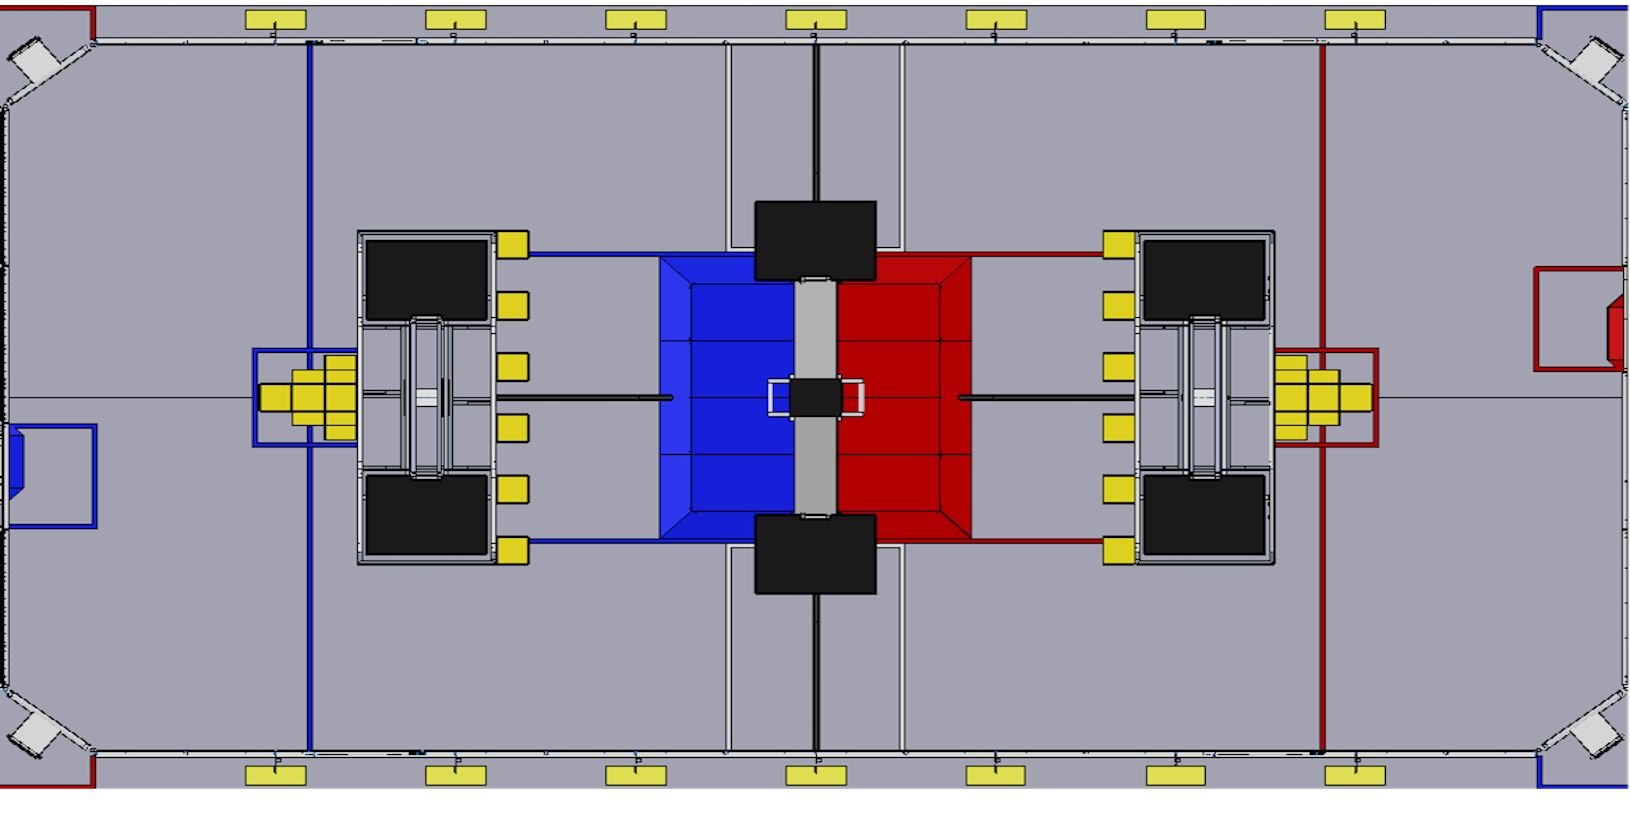
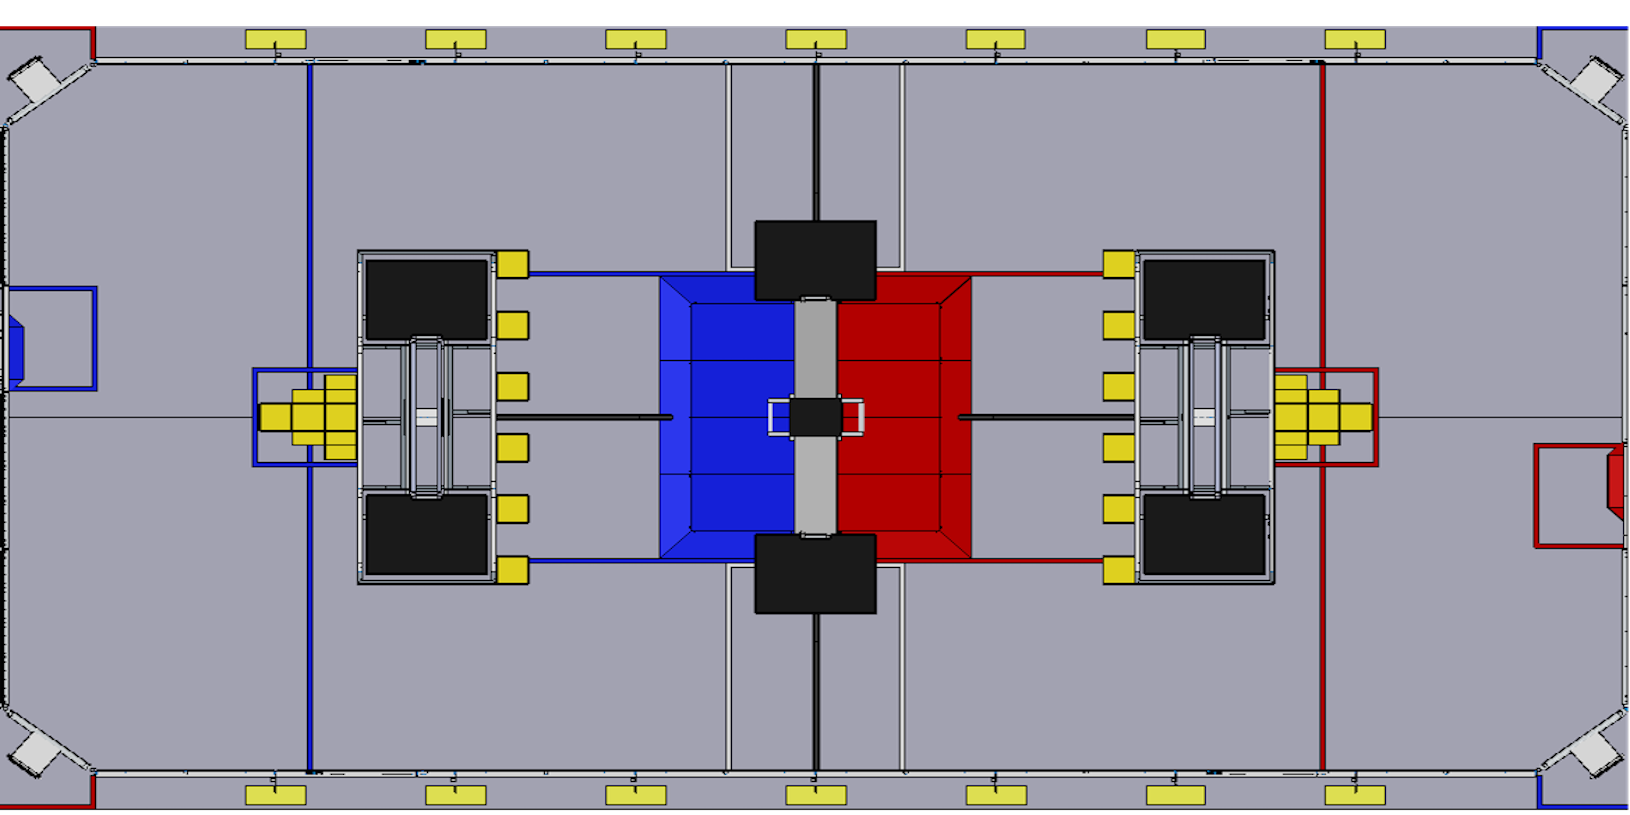
Finalized all blue auto paths

diff --git a/auto-graph/script.js b/auto-graph/script.js
@@ -387,15 +387,15 @@ function importData() {
 
 			if (name[0] == "C" || name[0] == "B") {
 				x = 18
-				y = 180
+				y = 170
 			}
 			else if (name[0] == "L") {
 				x = 18
-				y = 290
+				y = 280
 			}
 			else {
 				x = 18
-				y = 70
+				y = 60
 			}
 
 			

diff --git a/src/com/palyrobotics/frc2018/auto/modes/CenterStartRightScaleAutoMode.java b/src/com/palyrobotics/frc2018/auto/modes/CenterStartRightScaleAutoMode.java
@@ -36,14 +36,18 @@ public class CenterStartRightScaleAutoMode extends AutoModeBase {
         List<Path.Waypoint> path = new ArrayList<>();
         path.add(new Path.Waypoint(new Translation2d(0, 0), 72.0));
         if (mAlliance == Alliance.BLUE) {
-            path.add(new Path.Waypoint(new Translation2d((AutoDistances.kBlueRightScaleX - Constants.kRobotLengthInches)
-                    /2.0, 0), 72.0));
-            path.add(new Path.Waypoint(new Translation2d((AutoDistances.kBlueRightScaleX - Constants.kRobotLengthInches)
-                    / 2.0, -(AutoDistances.kFieldWidth - AutoDistances.kBlueLeftToCenterY - AutoDistances.kBlueRightScaleY
-                    - Constants.kPlateWidth/2.0)), 72.0));
+            path.add(new Path.Waypoint(new Translation2d(AutoDistances.kBlueRightSwitchX - Constants.kRobotLengthInches,
+                    -(AutoDistances.kFieldWidth - AutoDistances.kBlueLeftToCenterY - Constants.kRobotWidthInches)
+                            + AutoDistances.kBlueRightSwitchY/2.0), 72.0));
+            path.add(new Path.Waypoint(new Translation2d(AutoDistances.kBlueRightSwitchX + Constants.kRobotLengthInches,
+                    -(AutoDistances.kFieldWidth - AutoDistances.kBlueLeftToCenterY - Constants.kRobotWidthInches)
+                            + AutoDistances.kBlueRightSwitchY/2.0), 72.0));
+            path.add(new Path.Waypoint(new Translation2d(AutoDistances.kBlueRightScaleX - 2.0 * Constants.kRobotLengthInches,
+                    -(AutoDistances.kFieldWidth - AutoDistances.kBlueLeftToCenterY - Constants.kRobotWidthInches/2.0)
+                            + AutoDistances.kBlueRightScaleY + Constants.kPlateWidth/2.0), 72.0));
             path.add(new Path.Waypoint(new Translation2d(AutoDistances.kBlueRightScaleX - Constants.kRobotLengthInches,
-                    -(AutoDistances.kFieldWidth - AutoDistances.kBlueLeftToCenterY - AutoDistances.kBlueRightScaleY
-                            - Constants.kPlateWidth/2.0)), 0.0));
+                    -(AutoDistances.kFieldWidth - AutoDistances.kBlueLeftToCenterY - Constants.kRobotWidthInches/2.0)
+                            + AutoDistances.kBlueRightScaleY + Constants.kPlateWidth/2.0), 0.0));
         } else {
             path.add(new Path.Waypoint(new Translation2d((AutoDistances.kRedRightScaleX - Constants.kRobotLengthInches)
                     / 2.0, 0), 72.0));

diff --git a/src/com/palyrobotics/frc2018/auto/modes/LeftStartLeftScaleAutoMode.java b/src/com/palyrobotics/frc2018/auto/modes/LeftStartLeftScaleAutoMode.java
@@ -36,14 +36,16 @@ public class LeftStartLeftScaleAutoMode extends AutoModeBase {
         List<Path.Waypoint> path = new ArrayList<>();
         path.add(new Path.Waypoint(new Translation2d(0.0, 0.0), 72.0));
         if(mAlliance == Alliance.BLUE) {
-            path.add(new Path.Waypoint(new Translation2d((AutoDistances.kBlueLeftScaleX
-                    - Constants.kRobotLengthInches) / 2, 0.0), 72.0));
-            path.add(new Path.Waypoint(new Translation2d((AutoDistances.kBlueLeftScaleX - Constants.kRobotLengthInches) / 2,
-                    -(AutoDistances.kBlueLeftScaleY + (Constants.kPlateWidth / 2) - AutoDistances.kBlueLeftCornerOffset
-                            - (Constants.kPlateWidth / 2))), 72.0));
-            path.add(new Path.Waypoint(new Translation2d(AutoDistances.kBlueRightScaleX - Constants.kRobotLengthInches,
-                    -(AutoDistances.kBlueLeftScaleY + (Constants.kPlateWidth / 2) - AutoDistances.kBlueLeftCornerOffset
-                            - (Constants.kPlateWidth / 2))), 0.0));
+            path.add(new Path.Waypoint(new Translation2d(AutoDistances.kBlueLeftSwitchX - Constants.kRobotLengthInches,
+                    Constants.kRobotWidthInches/2.0 + AutoDistances.kBlueLeftCornerOffset - AutoDistances.kBlueLeftSwitchY/2.0), 72.0));
+            path.add(new Path.Waypoint(new Translation2d(AutoDistances.kBlueLeftSwitchX + Constants.kRobotLengthInches,
+                    Constants.kRobotWidthInches/2.0 + AutoDistances.kBlueLeftCornerOffset - AutoDistances.kBlueLeftSwitchY/2.0), 72.0));
+            path.add(new Path.Waypoint(new Translation2d(AutoDistances.kBlueLeftScaleX - 2.0*Constants.kRobotLengthInches,
+                    (Constants.kRobotWidthInches/2.0 + AutoDistances.kBlueLeftCornerOffset)
+                            - AutoDistances.kBlueLeftScaleY - Constants.kPlateWidth/2.0), 72.0));
+            path.add(new Path.Waypoint(new Translation2d(AutoDistances.kBlueLeftScaleX - Constants.kRobotLengthInches,
+                    (Constants.kRobotWidthInches/2.0 + AutoDistances.kBlueLeftCornerOffset)
+                            - AutoDistances.kBlueLeftScaleY - Constants.kPlateWidth/2.0), 0.0));
         } else {
             path.add(new Path.Waypoint(new Translation2d((AutoDistances.kRedLeftScaleX
                     - Constants.kRobotLengthInches) / 2, 0.0), 72.0));

diff --git a/src/com/palyrobotics/frc2018/config/fields/Team8Field.java b/src/com/palyrobotics/frc2018/config/fields/Team8Field.java
@@ -5,37 +5,34 @@ import com.palyrobotics.frc2018.config.AutoDistances;
 public class Team8Field {
     public static void configureFieldMeasurements() {
         //Base line
-        AutoDistances.kRedBaseLineDistanceInches = 0;
+        AutoDistances.kRedBaseLineDistanceInches = 0.0;
         AutoDistances.kBlueBaseLineDistanceInches = 121.0;
 
         //Switches
-        AutoDistances.kRedRightSwitchX = 100;
-        AutoDistances.kRedRightSwitchY = 50;
+        AutoDistances.kRedRightSwitchX = 100.0;
+        AutoDistances.kRedRightSwitchY = 50.0;
 
         AutoDistances.kBlueRightSwitchX = 139.5;
         AutoDistances.kBlueRightSwitchY = 82.5;
 
-        AutoDistances.kRedLeftSwitchX = 100;
-        AutoDistances.kRedLeftSwitchY = 50;
+        AutoDistances.kRedLeftSwitchX = 100.0;
+        AutoDistances.kRedLeftSwitchY = 50.0;
 
         AutoDistances.kBlueLeftSwitchX = 139.5;
         AutoDistances.kBlueLeftSwitchY = 85.0;
 
-        AutoDistances.kBlueLeftSwitchX = 100;
-        AutoDistances.kBlueLeftSwitchY = 50;
-
         //Scales
-        AutoDistances.kBlueLeftScaleX = 0;
-        AutoDistances.kBlueLeftScaleY = 0;
+        AutoDistances.kBlueLeftScaleX = 282.0;
+        AutoDistances.kBlueLeftScaleY = 69.5;
 
-        AutoDistances.kBlueRightScaleX = 0;
-        AutoDistances.kBlueRightScaleY = 0;
+        AutoDistances.kBlueRightScaleX = 282.0;
+        AutoDistances.kBlueRightScaleY = 69.5;
 
-        AutoDistances.kRedLeftScaleX = 0;
-        AutoDistances.kRedLeftScaleY = 0;
+        AutoDistances.kRedLeftScaleX = 282.0;
+        AutoDistances.kRedLeftScaleY = 69.5;
 
-        AutoDistances.kRedRightScaleX = 0;
-        AutoDistances.kRedRightScaleY = 0;
+        AutoDistances.kRedRightScaleX = 282.0;
+        AutoDistances.kRedRightScaleY = 69.5;
 
         //Offsets
         AutoDistances.kRedLeftCornerOffset = 0;
@@ -45,7 +42,7 @@ public class Team8Field {
         AutoDistances.kBlueRightCornerOffset = 28.0;
 
         //Self explanatory
-        AutoDistances.kFieldWidth = 132;
+        AutoDistances.kFieldWidth = 321;
 
         //Length from left field wall to right edge of the exchange zone
         AutoDistances.kBlueLeftToCenterY = 139.0;

diff --git a/src/com/palyrobotics/frc2018/auto/modes/LeftStartRightScaleAutoMode.java b/src/com/palyrobotics/frc2018/auto/modes/LeftStartRightScaleAutoMode.java
@@ -36,14 +36,14 @@ public class LeftStartRightScaleAutoMode extends AutoModeBase {
         List<Path.Waypoint> path = new ArrayList<>();
         path.add(new Path.Waypoint(new Translation2d(0.0, 0.0), 72.0));
         if(mAlliance == Alliance.BLUE) {
-            path.add(new Path.Waypoint(new Translation2d(AutoDistances.kBlueScaleSwitchMidlineX
-                    - Constants.kRobotLengthInches, 0.0), 72.0));
-            path.add(new Path.Waypoint(new Translation2d(AutoDistances.kBlueScaleSwitchMidlineX,
-                    -(AutoDistances.kFieldWidth - (Constants.kRobotWidthInches / 2) - AutoDistances.kBlueLeftCornerOffset
-                            - AutoDistances.kBlueRightCornerOffset - (Constants.kPlateWidth / 2))), 72.0));
+            path.add(new Path.Waypoint(new Translation2d(AutoDistances.kBlueScaleSwitchMidlineX - Constants.kRobotLengthInches/2.0,
+                    Constants.kRobotWidthInches/2.0 + AutoDistances.kBlueLeftCornerOffset - AutoDistances.kBlueLeftSwitchY/2.0), 72.0));
+            path.add(new Path.Waypoint(new Translation2d(AutoDistances.kBlueScaleSwitchMidlineX - Constants.kRobotLengthInches/2.0,
+                    -AutoDistances.kFieldWidth + Constants.kRobotWidthInches/2.0 + AutoDistances.kBlueLeftCornerOffset
+                            + AutoDistances.kBlueRightScaleY + Constants.kPlateWidth/2.0), 72.0));
             path.add(new Path.Waypoint(new Translation2d(AutoDistances.kBlueRightScaleX - Constants.kRobotLengthInches,
-                    -(AutoDistances.kFieldWidth - (Constants.kRobotWidthInches / 2) - AutoDistances.kBlueLeftCornerOffset
-                            - AutoDistances.kBlueRightCornerOffset - (Constants.kPlateWidth / 2))), 0.0));
+                    -AutoDistances.kFieldWidth + Constants.kRobotWidthInches/2.0 + AutoDistances.kBlueLeftCornerOffset
+                            + AutoDistances.kBlueRightScaleY + Constants.kPlateWidth/2.0), 0.0));
         } else {
             path.add(new Path.Waypoint(new Translation2d(AutoDistances.kRedScaleSwitchMidlineX
                     - Constants.kRobotLengthInches, 0.0), 72.0));

diff --git a/src/com/palyrobotics/frc2018/auto/modes/RightStartLeftScaleAutoMode.java b/src/com/palyrobotics/frc2018/auto/modes/RightStartLeftScaleAutoMode.java
@@ -37,14 +37,14 @@ public class RightStartLeftScaleAutoMode extends AutoModeBase {
         List<Waypoint> path = new ArrayList<>();
         path.add(new Waypoint(new Translation2d(0.0, 0.0), 72.0));
         if(mAlliance == Alliance.BLUE) {
-            path.add(new Path.Waypoint(new Translation2d(AutoDistances.kBlueScaleSwitchMidlineX
-                    - Constants.kRobotLengthInches, 0.0), 72.0));
-            path.add(new Path.Waypoint(new Translation2d(AutoDistances.kBlueScaleSwitchMidlineX,
-                    AutoDistances.kFieldWidth - (Constants.kRobotWidthInches / 2) - AutoDistances.kBlueRightCornerOffset
-                            - AutoDistances.kBlueLeftCornerOffset - (Constants.kPlateWidth / 2)), 72.0));
+            path.add(new Path.Waypoint(new Translation2d(AutoDistances.kBlueScaleSwitchMidlineX - Constants.kRobotLengthInches/2.0,
+                    -Constants.kRobotWidthInches/2.0 - AutoDistances.kBlueRightCornerOffset + AutoDistances.kBlueRightSwitchY/2.0), 72.0));
+            path.add(new Path.Waypoint(new Translation2d(AutoDistances.kBlueScaleSwitchMidlineX - Constants.kRobotLengthInches/2.0,
+                    AutoDistances.kFieldWidth - Constants.kRobotWidthInches/2.0 - AutoDistances.kBlueRightCornerOffset
+                    - AutoDistances.kBlueLeftScaleY - Constants.kPlateWidth/2.0), 72.0));
             path.add(new Path.Waypoint(new Translation2d(AutoDistances.kBlueLeftScaleX - Constants.kRobotLengthInches,
-                    AutoDistances.kFieldWidth - (Constants.kRobotWidthInches / 2) - AutoDistances.kBlueRightCornerOffset
-                            - AutoDistances.kBlueLeftCornerOffset - (Constants.kPlateWidth / 2)), 0.0));
+                    AutoDistances.kFieldWidth - Constants.kRobotWidthInches/2.0 - AutoDistances.kBlueRightCornerOffset
+                            - AutoDistances.kBlueLeftScaleY - Constants.kPlateWidth/2.0), 0.0));
         } else {
             path.add(new Path.Waypoint(new Translation2d(AutoDistances.kRedScaleSwitchMidlineX
                     - Constants.kRobotLengthInches, 0.0), 72.0));

diff --git a/src/com/palyrobotics/frc2018/auto/modes/CenterStartLeftScaleAutoMode.java b/src/com/palyrobotics/frc2018/auto/modes/CenterStartLeftScaleAutoMode.java
@@ -37,12 +37,15 @@ public class CenterStartLeftScaleAutoMode extends AutoModeBase {
         List<Waypoint> path = new ArrayList<>();
         path.add(new Waypoint(new Translation2d(0, 0), 72.0));
         if (mAlliance == Alliance.BLUE) {
-            path.add(new Waypoint(new Translation2d((AutoDistances.kBlueLeftScaleX - Constants.kRobotLengthInches)
-                    / 2.0, 0), 72.0));
-            path.add(new Waypoint(new Translation2d((AutoDistances.kBlueLeftScaleX - Constants.kRobotLengthInches)/2.0,
-                    AutoDistances.kBlueLeftToCenterY - AutoDistances.kBlueLeftScaleY - Constants.kPlateWidth/2.0), 72.0));
+            path.add(new Waypoint(new Translation2d(AutoDistances.kBlueLeftSwitchX - Constants.kRobotLengthInches,
+                    AutoDistances.kBlueLeftToCenterY + Constants.kRobotWidthInches/2.0 - AutoDistances.kBlueLeftSwitchY/2.0), 72.0));
+            path.add(new Waypoint(new Translation2d(AutoDistances.kBlueLeftSwitchX + Constants.kRobotLengthInches,
+                    AutoDistances.kBlueLeftToCenterY + Constants.kRobotWidthInches/2.0 - AutoDistances.kBlueLeftSwitchY/2.0), 72.0));
+            path.add(new Waypoint(new Translation2d(AutoDistances.kBlueLeftScaleX - 2.0 * Constants.kRobotLengthInches,
+                    AutoDistances.kBlueLeftToCenterY + Constants.kRobotWidthInches/2.0 - AutoDistances.kBlueLeftScaleY
+                            - Constants.kPlateWidth/2.0), 72.0));
             path.add(new Waypoint(new Translation2d(AutoDistances.kBlueLeftScaleX - Constants.kRobotLengthInches,
-                    AutoDistances.kFieldWidth - AutoDistances.kBlueLeftToCenterY - AutoDistances.kBlueLeftScaleY
+                    AutoDistances.kBlueLeftToCenterY + Constants.kRobotWidthInches/2.0 - AutoDistances.kBlueLeftScaleY
                             - Constants.kPlateWidth/2.0), 0.0));
         } else {
             path.add(new Waypoint(new Translation2d((AutoDistances.kRedLeftScaleX - Constants.kRobotLengthInches)

diff --git a/src/com/palyrobotics/frc2018/auto/modes/RightStartRightScaleAutoMode.java b/src/com/palyrobotics/frc2018/auto/modes/RightStartRightScaleAutoMode.java
@@ -36,14 +36,14 @@ public class RightStartRightScaleAutoMode extends AutoModeBase {
         List<Path.Waypoint> path = new ArrayList<>();
         path.add(new Path.Waypoint(new Translation2d(0.0, 0.0), 72.0));
         if(mAlliance == Alliance.BLUE) {
-            path.add(new Path.Waypoint(new Translation2d((AutoDistances.kBlueRightScaleX
-                    - Constants.kRobotLengthInches) / 2, 0.0), 72.0));
-            path.add(new Path.Waypoint(new Translation2d((AutoDistances.kBlueRightScaleX - Constants.kRobotLengthInches) / 2,
-                    AutoDistances.kBlueRightScaleY + (Constants.kPlateWidth / 2) - AutoDistances.kBlueRightCornerOffset
-                            - (Constants.kPlateWidth / 2)), 72.0));
+            path.add(new Path.Waypoint(new Translation2d(AutoDistances.kBlueRightSwitchX + Constants.kRobotLengthInches,
+                    -(Constants.kRobotWidthInches/2.0 + AutoDistances.kBlueRightCornerOffset) + AutoDistances.kBlueRightSwitchY/2.0), 72.0));
+            path.add(new Path.Waypoint(new Translation2d(AutoDistances.kBlueRightScaleX - 2.0 * Constants.kRobotLengthInches,
+                    -(Constants.kRobotWidthInches/2.0 + AutoDistances.kBlueRightCornerOffset)
+                            + AutoDistances.kBlueRightScaleY + Constants.kPlateWidth/2.0), 72.0));
             path.add(new Path.Waypoint(new Translation2d(AutoDistances.kBlueRightScaleX - Constants.kRobotLengthInches,
-                    AutoDistances.kBlueRightScaleY + (Constants.kPlateWidth / 2) - AutoDistances.kBlueRightCornerOffset
-                            - (Constants.kPlateWidth / 2)), 0.0));
+                    -(Constants.kRobotWidthInches/2.0 + AutoDistances.kBlueRightCornerOffset)
+                    + AutoDistances.kBlueRightScaleY + Constants.kPlateWidth/2.0), 0.0));
         } else {
             path.add(new Path.Waypoint(new Translation2d((AutoDistances.kRedRightScaleX
                     - Constants.kRobotLengthInches) / 2, 0.0), 72.0));

diff --git a/src/com/palyrobotics/frc2018/auto/modes/LeftStartRightSwitchAutoMode.java b/src/com/palyrobotics/frc2018/auto/modes/LeftStartRightSwitchAutoMode.java
@@ -36,14 +36,11 @@ public class LeftStartRightSwitchAutoMode extends AutoModeBase {
         List<Path.Waypoint> path = new ArrayList<>();
         path.add(new Path.Waypoint(new Translation2d(0.0, 0.0), 72.0));
         if(mAlliance == Alliance.BLUE) {
-            path.add(new Path.Waypoint(new Translation2d(AutoDistances.kBlueScaleSwitchMidlineX
-                    - Constants.kRobotLengthInches, 0.0), 72.0));
-            path.add(new Path.Waypoint(new Translation2d(AutoDistances.kBlueScaleSwitchMidlineX - Constants.kRobotLengthInches,
-                    -(AutoDistances.kFieldWidth - AutoDistances.kBlueLeftCornerOffset - (Constants.kRobotWidthInches / 2)
-                            - AutoDistances.kBlueRightSwitchY - (Constants.kPlateWidth / 2))), 72.0));
-            path.add(new Path.Waypoint(new Translation2d(AutoDistances.kBlueRightSwitchX + Constants.kPlateLength
-                    + Constants.kRobotLengthInches, -(AutoDistances.kFieldWidth - AutoDistances.kBlueLeftCornerOffset
-                    - (Constants.kRobotWidthInches / 2) - AutoDistances.kBlueRightSwitchY - (Constants.kPlateWidth / 2))), 0.0));
+            path.add(new Path.Waypoint(new Translation2d(AutoDistances.kBlueScaleSwitchMidlineX - Constants.kRobotLengthInches/2.0,
+                    Constants.kRobotWidthInches/2.0 + AutoDistances.kBlueLeftCornerOffset - AutoDistances.kBlueLeftSwitchY/2.0), 72.0));
+            path.add(new Path.Waypoint(new Translation2d(AutoDistances.kBlueLeftSwitchX + Constants.kPlateLength + Constants.kRobotLengthInches/2.0
+                    + Constants.kSquareCubeLength, -AutoDistances.kFieldWidth + Constants.kRobotWidthInches/2.0 + AutoDistances.kBlueLeftCornerOffset
+                            + AutoDistances.kBlueRightSwitchY + Constants.kPlateWidth/2.0), 0.0));
         } else {
             path.add(new Path.Waypoint(new Translation2d(AutoDistances.kRedScaleSwitchMidlineX
                     - Constants.kRobotLengthInches, 0.0), 72.0));

diff --git a/src/com/palyrobotics/frc2018/auto/modes/RightStartLeftSwitchAutoMode.java b/src/com/palyrobotics/frc2018/auto/modes/RightStartLeftSwitchAutoMode.java
@@ -36,14 +36,11 @@ public class RightStartLeftSwitchAutoMode extends AutoModeBase {
         List<Path.Waypoint> path = new ArrayList<>();
         path.add(new Path.Waypoint(new Translation2d(0.0, 0.0), 72.0));
         if(mAlliance == Alliance.BLUE) {
-            path.add(new Path.Waypoint(new Translation2d(AutoDistances.kBlueScaleSwitchMidlineX
-                    - Constants.kRobotLengthInches, 0.0), 72.0));
-            path.add(new Path.Waypoint(new Translation2d(AutoDistances.kBlueScaleSwitchMidlineX - Constants.kRobotLengthInches,
-                    AutoDistances.kFieldWidth - AutoDistances.kBlueRightCornerOffset - (Constants.kRobotWidthInches / 2)
-                            - AutoDistances.kBlueLeftSwitchY - (Constants.kPlateWidth / 2)), 72.0));
-            path.add(new Path.Waypoint(new Translation2d(AutoDistances.kBlueLeftSwitchX + Constants.kPlateLength
-                    + Constants.kRobotLengthInches, AutoDistances.kFieldWidth - AutoDistances.kBlueRightCornerOffset
-                        - (Constants.kRobotWidthInches / 2) - AutoDistances.kBlueLeftSwitchY - (Constants.kPlateWidth / 2)), 0.0));
+            path.add(new Path.Waypoint(new Translation2d(AutoDistances.kBlueScaleSwitchMidlineX - Constants.kRobotLengthInches/2.0,
+                    -Constants.kRobotWidthInches/2.0 - AutoDistances.kBlueRightCornerOffset + AutoDistances.kBlueRightSwitchY/2.0), 72.0));
+            path.add(new Path.Waypoint(new Translation2d(AutoDistances.kBlueLeftSwitchX + Constants.kPlateLength + Constants.kRobotLengthInches/2.0
+                    + Constants.kSquareCubeLength, AutoDistances.kFieldWidth - Constants.kRobotWidthInches/2.0 - AutoDistances.kBlueRightCornerOffset
+                    - AutoDistances.kBlueLeftSwitchY - Constants.kPlateWidth/2.0), 0.0));
         } else {
             path.add(new Path.Waypoint(new Translation2d(AutoDistances.kRedScaleSwitchMidlineX
                     - Constants.kRobotLengthInches, 0.0), 72.0));

diff --git a/src/com/palyrobotics/frc2018/auto/modes/LeftStartLeftSwitchAutoMode.java b/src/com/palyrobotics/frc2018/auto/modes/LeftStartLeftSwitchAutoMode.java
@@ -36,15 +36,14 @@ public class LeftStartLeftSwitchAutoMode extends AutoModeBase {
         List<Path.Waypoint> path = new ArrayList<>();
         path.add(new Path.Waypoint(new Translation2d(0.0, 0.0), 72.0));
         if(mAlliance == Alliance.BLUE) {
-            path.add(new Path.Waypoint(new Translation2d(AutoDistances.kBlueLeftSwitchX - Constants.kRobotLengthInches
-                    + (Constants.kPlateLength / 2), 0.0), 72.0));
-            path.add(new Path.Waypoint(new Translation2d(AutoDistances.kBlueLeftSwitchX - Constants.kRobotLengthInches
-                    + (Constants.kPlateLength / 2), -(AutoDistances.kBlueLeftSwitchY - Constants.kRobotLengthInches)), 0.0));
+            path.add(new Path.Waypoint(new Translation2d(AutoDistances.kBlueLeftSwitchX + Constants.kPlateLength/2.0, 0.0), 72.0));
+            path.add(new Path.Waypoint(new Translation2d(AutoDistances.kBlueLeftSwitchX + Constants.kPlateLength/2.0,
+                    -AutoDistances.kBlueLeftSwitchY + Constants.kRobotLengthInches + Constants.kRobotWidthInches/2.0 + AutoDistances.kBlueLeftCornerOffset), 0.0));
         } else {
             path.add(new Path.Waypoint(new Translation2d(AutoDistances.kRedLeftSwitchX - Constants.kRobotLengthInches
                     + (Constants.kPlateLength / 2), 0.0), 72.0));
-            path.add(new Path.Waypoint(new Translation2d(AutoDistances.kRedLeftSwitchX - Constants.kRobotLengthInches
-                    + (Constants.kPlateLength / 2), -(AutoDistances.kRedLeftSwitchY - Constants.kRobotLengthInches)), 0.0));
+            path.add(new Path.Waypoint(new Translation2d(AutoDistances.kRedRightSwitchX - Constants.kRobotLengthInches
+                    + (Constants.kPlateLength / 2), AutoDistances.kRedRightSwitchY - Constants.kRobotLengthInches/2 - AutoDistances.kRedLeftCornerOffset), 0.0));
         }
         ArrayList<Routine> routines = new ArrayList<>();
         routines.add(new DriveSensorResetRoutine());

diff --git a/src/com/palyrobotics/frc2018/auto/modes/CenterStartRightSwitchAutoMode.java b/src/com/palyrobotics/frc2018/auto/modes/CenterStartRightSwitchAutoMode.java
@@ -37,14 +37,12 @@ public class CenterStartRightSwitchAutoMode extends AutoModeBase {
         List<Waypoint> path = new ArrayList<>();
         path.add(new Waypoint(new Translation2d(0, 0), 72.0));
         if (mAlliance == Alliance.BLUE) {
-            path.add(new Waypoint(new Translation2d((AutoDistances.kBlueRightSwitchX - Constants.kRobotLengthInches)
-					/2.0, 0), 72.0));
-            path.add(new Waypoint(new Translation2d((AutoDistances.kBlueRightSwitchX - Constants.kRobotLengthInches)/2.0,
-					-(AutoDistances.kFieldWidth - AutoDistances.kBlueLeftToCenterY - AutoDistances.kBlueRightSwitchY
-							- Constants.kPlateWidth/2.0)), 72.0));
-            path.add(new Waypoint(new Translation2d(AutoDistances.kBlueRightSwitchX - Constants.kRobotLengthInches,
-                    -(AutoDistances.kFieldWidth - AutoDistances.kBlueLeftToCenterY - AutoDistances.kBlueRightSwitchY -
-							Constants.kPlateWidth/2.0)), 0.0));
+            path.add(new Waypoint(new Translation2d(2.0 * Constants.kRobotLengthInches, -(AutoDistances.kFieldWidth
+					- AutoDistances.kBlueLeftToCenterY - Constants.kRobotWidthInches/2.0) + AutoDistances.kBlueRightSwitchY
+					+ Constants.kPlateWidth/2.0), 72.0));
+			path.add(new Waypoint(new Translation2d(AutoDistances.kBlueRightSwitchX - Constants.kRobotLengthInches,
+					-(AutoDistances.kFieldWidth - AutoDistances.kBlueLeftToCenterY - Constants.kRobotWidthInches/2.0)
+							+ AutoDistances.kBlueRightSwitchY + Constants.kPlateWidth/2.0), 0.0));
         } else {
             path.add(new Waypoint(new Translation2d((AutoDistances.kRedRightSwitchX - Constants.kRobotLengthInches)
 					/2.0, 0), 72.0));
